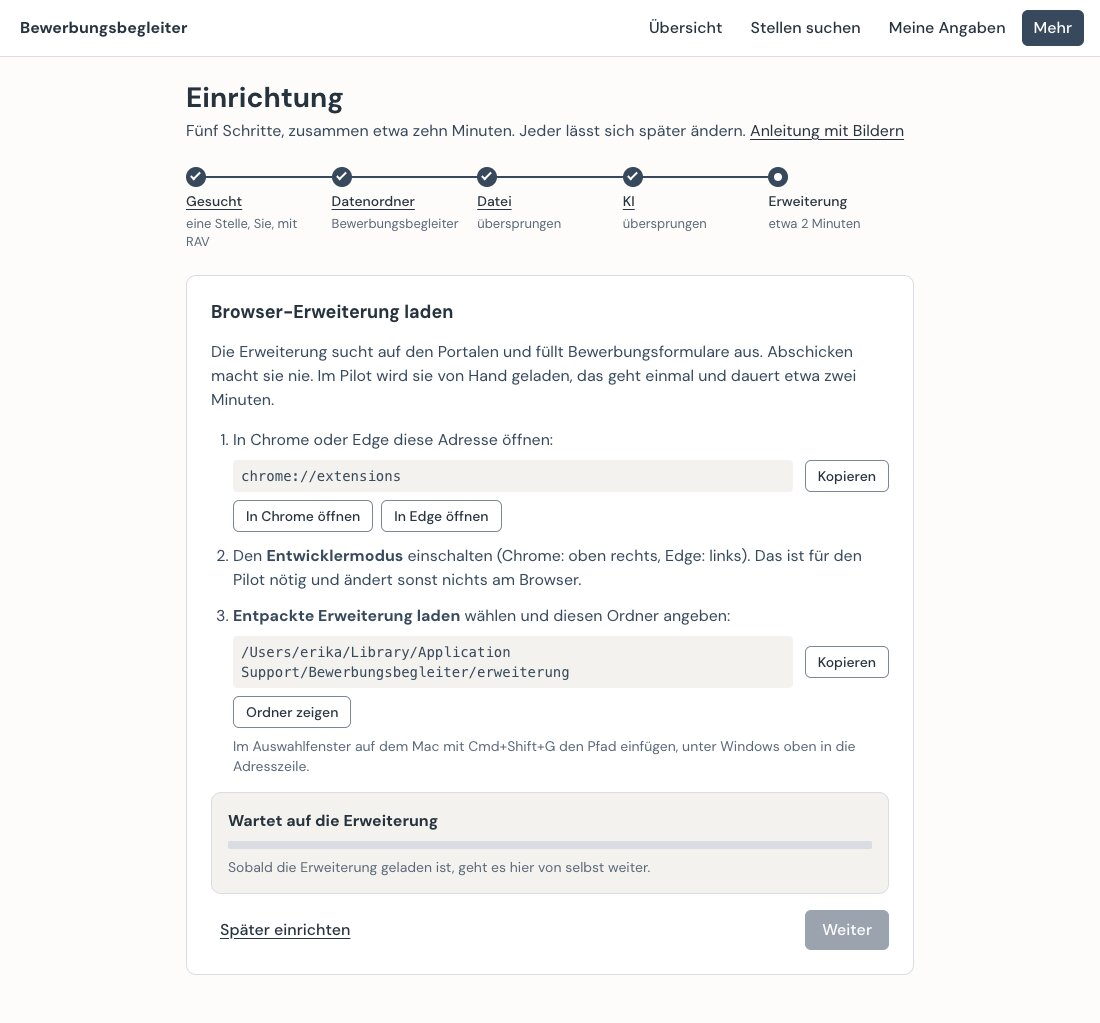
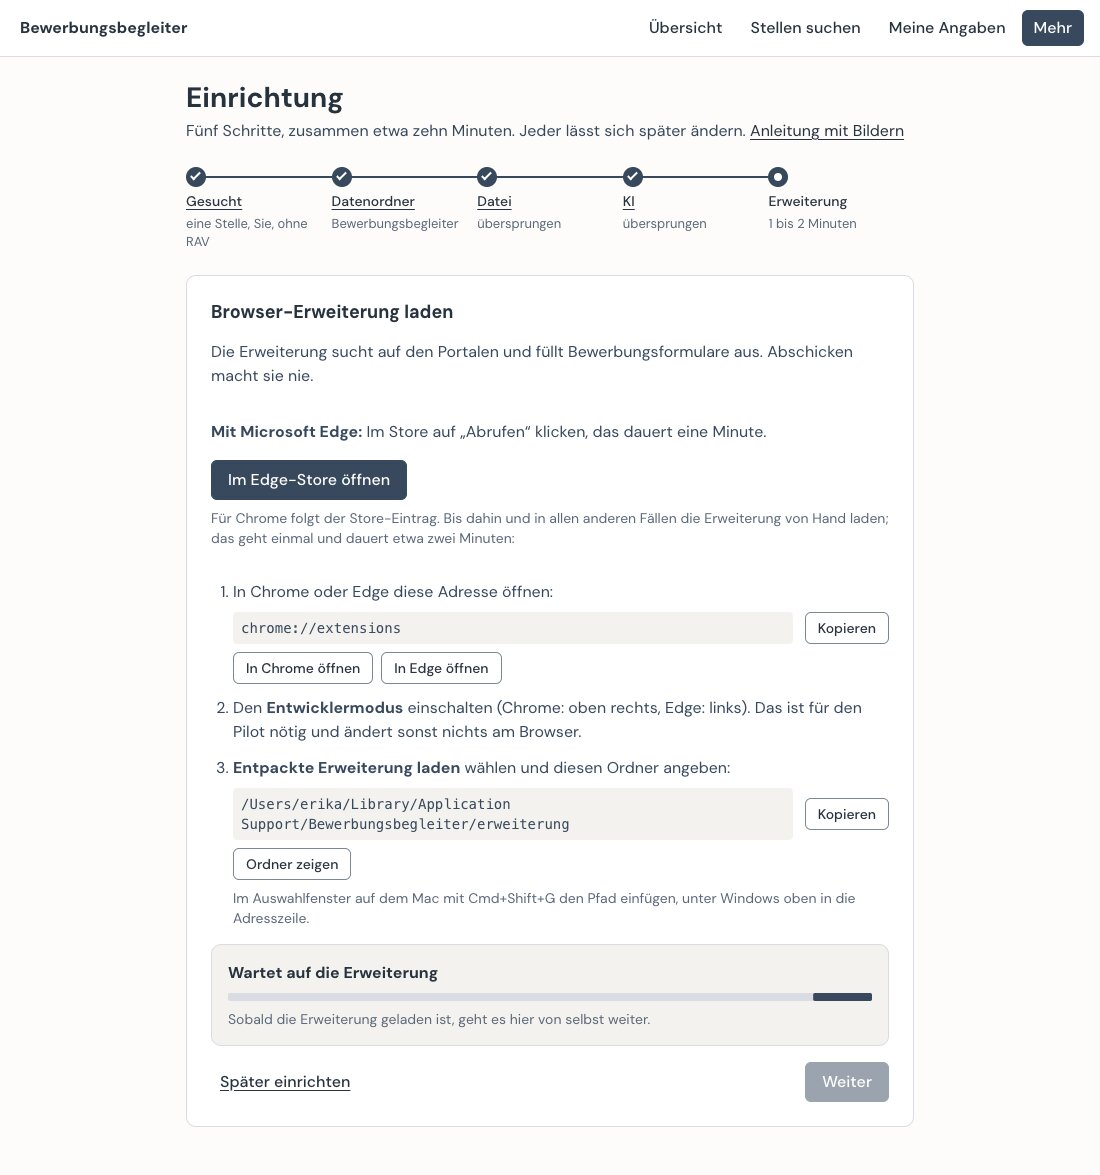
feat: lead Edge users to the store in the setup (#75) [G3] (#35)
Pullboard-Item: #75

Claude-Session: https://claude.ai/code/session_01WgFHS5MLF7RQbuiBw169Uz

diff --git a/bewerbungen/seiten/einrichtung.js b/bewerbungen/seiten/einrichtung.js
@@ -84,7 +84,7 @@
       case "ki": return kiVerbunden() ? "verbunden" : sitzung.uebersprungen.ki ? "übersprungen" : "Einladungscode";
       case "erweiterung":
         if (!info?.erweiterung) return "nur in der installierten App";
-        return erweiterungGeladen() ? "geladen" : sitzung.uebersprungen.erweiterung ? "später" : "etwa 2 Minuten";
+        return erweiterungGeladen() ? "geladen" : sitzung.uebersprungen.erweiterung ? "später" : "1 bis 2 Minuten";
       default: return "";
     }
   }
@@ -386,6 +386,7 @@
     $("erweiterung-ordner").textContent = info.erweiterung.ordner;
     const geladen = erweiterungGeladen();
     $("erweiterung-schritte").hidden = Boolean(geladen);
+    $("erweiterung-store").hidden = Boolean(geladen);
     $("erweiterung-warten").hidden = Boolean(geladen);
     $("erweiterung-weiter").disabled = !geladen;
     $("erweiterung-spaeter").hidden = Boolean(geladen);
@@ -411,6 +412,12 @@
   for (const knopf of document.querySelectorAll("button[data-browser]")) {
     knopf.addEventListener("click", async () => {
       try { await senden("/api/app/erweiterungsseite", { browser: knopf.dataset.browser }); }
+      catch (fehler) { meldung($("erweiterung-zustand"), fehler.message, "danger"); }
+    });
+  }
+  for (const knopf of document.querySelectorAll("button[data-store]")) {
+    knopf.addEventListener("click", async () => {
+      try { await senden("/api/app/erweiterung-store", { browser: knopf.dataset.store }); }
       catch (fehler) { meldung($("erweiterung-zustand"), fehler.message, "danger"); }
     });
   }

diff --git a/bewerbungen/seiten/einrichtung.html b/bewerbungen/seiten/einrichtung.html
@@ -95,7 +95,12 @@
   <!-- 5. Browser extension -->
   <section class="card" id="erweiterung" data-schritt="erweiterung" aria-labelledby="erweiterung-titel" hidden>
     <h2 id="erweiterung-titel">Browser-Erweiterung laden</h2>
-    <p>Die Erweiterung sucht auf den Portalen und füllt Bewerbungsformulare aus. Abschicken macht sie nie. Im Pilot wird sie von Hand geladen, das geht einmal und dauert etwa zwei Minuten.</p>
+    <p>Die Erweiterung sucht auf den Portalen und füllt Bewerbungsformulare aus. Abschicken macht sie nie.</p>
+    <div id="erweiterung-store" class="setup__store">
+      <p><strong>Mit Microsoft Edge:</strong> Im Store auf „Abrufen“ klicken, das dauert eine Minute.</p>
+      <div class="btn-row"><button type="button" class="btn btn--primary" data-store="edge">Im Edge-Store öffnen</button></div>
+      <p class="field__hint">Für Chrome folgt der Store-Eintrag. Bis dahin und in allen anderen Fällen die Erweiterung von Hand laden; das geht einmal und dauert etwa zwei Minuten:</p>
+    </div>
     <ol id="erweiterung-schritte" class="setup__instructions">
       <li>In Chrome oder Edge diese Adresse öffnen:
         <div class="copy-row setup__copy"><span class="copy-row__value setup__mono">chrome://extensions</span><button type="button" class="btn btn--sm" data-kopieren="chrome://extensions">Kopieren</button></div>

diff --git a/bewerbungen/seiten/stil.css b/bewerbungen/seiten/stil.css
@@ -587,6 +587,8 @@ label.check input { margin-top: 3px; }
 .setup__instructions { display: flex; flex-direction: column; gap: var(--space-3); margin: 0; padding-left: 22px; }
 .setup__instructions .btn-row, .setup__instructions .field__hint { margin-top: var(--space-2); }
 .setup__copy { grid-template-columns: 1fr auto; margin-top: var(--space-2); }
+.setup__store { margin-bottom: var(--space-4); }
+.setup__store .field__hint { margin-top: var(--space-2); }
 .setup__mono { font: 400 14px/20px var(--font-mono); }
 .setup__waiting { background: var(--surface-subtle); }
 .setup__more > summary { cursor: pointer; font-weight: 500; color: var(--text-strong); }

diff --git a/desktop/tests/test_setup.py b/desktop/tests/test_setup.py
@@ -363,6 +363,44 @@ def test_unknown_browser_is_refused():
         dialogs.open_extensions_page("firefox", "darwin", recording())
 
 
+@pytest.mark.parametrize("platform, command", [
+    ("darwin", ["open", "-a", "Microsoft Edge", dialogs.STORE_PAGES["edge"]]),
+    ("win32", ["cmd", "/c", "start", "", "msedge", dialogs.STORE_PAGES["edge"]]),
+])
+def test_store_page_opens_in_edge(platform, command):
+    run = recording()
+
+    dialogs.open_store_page("edge", platform, run)
+
+    assert run.calls == [command]
+
+
+def test_store_page_is_refused_for_a_browser_without_a_store_entry():
+    with pytest.raises(ValueError, match="Store"):
+        dialogs.open_store_page("chrome", "darwin", recording())
+
+
+def test_route_opens_the_store_without_showing_the_folder(tmp_path):
+    opened, shown = [], []
+    state = routes_setup.Setup(paths=settings.Paths(tmp_path / "app"), switch=lambda folder: None,
+                               suggestion=tmp_path / "x", extension_dir=tmp_path / "erweiterung",
+                               open_store=opened.append, reveal=shown.append)
+    _, post_routes = routes_setup.make_routes(state)
+
+    answer = post_routes["/api/app/erweiterung-store"](None, {}, {"browser": "edge"})
+
+    assert answer.status == 200 and opened == ["edge"] and shown == []
+
+
+def test_the_setup_page_offers_the_edge_store_before_loading_by_hand():
+    root = pathlib.Path(__file__).resolve().parents[2]
+    page = (root / "bewerbungen" / "seiten" / "einrichtung.html").read_text(encoding="utf-8")
+    assert 'data-store="edge"' in page
+    assert page.index('data-store="edge"') < page.index("Entpackte Erweiterung laden")
+    script = (root / "bewerbungen" / "seiten" / "einrichtung.js").read_text(encoding="utf-8")
+    assert '"/api/app/erweiterung-store"' in script
+
+
 def test_route_opens_the_page_and_shows_the_folder(tmp_path):
     opened, shown = [], []
     state = routes_setup.Setup(paths=settings.Paths(tmp_path / "app"), switch=lambda folder: None,

diff --git a/desktop/routes_setup.py b/desktop/routes_setup.py
@@ -31,6 +31,7 @@ class Setup:
     extension_dir: pathlib.Path | None = None  # developer add-on to load in the browser (MIN-339)
     reveal: Callable[[pathlib.Path], None] = lambda folder: dialogs.reveal(folder, sys.platform)
     open_page: Callable[[str], None] = lambda browser: dialogs.open_extensions_page(browser, sys.platform)
+    open_store: Callable[[str], None] = lambda browser: dialogs.open_store_page(browser, sys.platform)
 
     def data_dir(self) -> pathlib.Path | None:
         return settings.chosen_data_dir(self.paths)
@@ -101,10 +102,15 @@ def make_routes(state: Setup) -> tuple[dict, dict]:
         state.reveal(state.extension_dir)
         return json_antwort({"ok": True})
 
+    def extension_store(k, parameter, body):
+        state.open_store(body.get("browser") if isinstance(body, dict) else None)
+        return json_antwort({"ok": True})
+
     return ({"/api/app/einrichtung": overview},
             {"/api/app/ordner-pruefen": check, "/api/app/datenordner": choose_data_dir,
              "/api/app/waehlen": dialog, "/api/app/einstieg": import_einstieg,
-             "/api/app/ordner-zeigen": show_folder, "/api/app/erweiterungsseite": extensions_page})
+             "/api/app/ordner-zeigen": show_folder, "/api/app/erweiterungsseite": extensions_page,
+             "/api/app/erweiterung-store": extension_store})
 
 
 def _extension(state: Setup) -> dict | None:

diff --git a/desktop/dialogs.py b/desktop/dialogs.py
@@ -81,11 +81,27 @@ BROWSERS = {
 }
 
 
+STORE_PAGES = {
+    "edge": "https://microsoftedge.microsoft.com/addons/detail/mcbcijjbklfeffbollnemgkgnabnmfmp",
+}
+
+
 def open_extensions_page(browser: str, platform: str, run: Run = subprocess.run) -> None:
     """Open the extensions page; a web page may not link to it, the system may (MIN-366)."""
     if browser not in BROWSERS:
         raise ValueError("Unbekannter Browser.")
-    name, windows_command, page = BROWSERS[browser]
+    _open_in_browser(browser, BROWSERS[browser][2], platform, run)
+
+
+def open_store_page(browser: str, platform: str, run: Run = subprocess.run) -> None:
+    """Open the store entry in that browser: a store only installs into its own browser (#75)."""
+    if browser not in STORE_PAGES:
+        raise ValueError("Für diesen Browser gibt es noch keinen Store-Eintrag.")
+    _open_in_browser(browser, STORE_PAGES[browser], platform, run)
+
+
+def _open_in_browser(browser: str, page: str, platform: str, run: Run) -> None:
+    name, windows_command, _ = BROWSERS[browser]
     if platform == "darwin":
         command = ["open", "-a", name, page]
     elif platform == "win32":

diff --git a/docs/installation.md b/docs/installation.md
@@ -61,9 +61,13 @@ Tragen Sie danach den Einladungscode ein und klicken Sie auf **Einladung einlös
 
 ### Schritt 5: Browser-Erweiterung
 
-Die Erweiterung sucht in Ihrem Browser nach Stellen und füllt Bewerbungsformulare aus. Ausserdem liest sie auf Klick das Inserat ein, das Sie gerade offen haben, zum Beispiel auf LinkedIn oder der Karriereseite einer Firma: Inserat öffnen, auf ihr Symbol klicken, **Stelle speichern**. Bis sie im Store ist, laden Sie sie einmal von Hand.
+Die Erweiterung sucht in Ihrem Browser nach Stellen und füllt Bewerbungsformulare aus. Ausserdem liest sie auf Klick das Inserat ein, das Sie gerade offen haben, zum Beispiel auf LinkedIn oder der Karriereseite einer Firma: Inserat öffnen, auf ihr Symbol klicken, **Stelle speichern**. In Microsoft Edge kommt sie aus dem Store, für Chrome folgt der Store-Eintrag.
 
-![Schritt Browser-Erweiterung mit den Knöpfen In Chrome öffnen, In Edge öffnen, dem Pfad des Ordners und dem Knopf Ordner zeigen](bilder/einrichtung-erweiterung.jpg)
+**In Edge:** Auf **Im Edge-Store öffnen** klicken, im [Eintrag bei Edge Add-ons](https://microsoftedge.microsoft.com/addons/detail/mcbcijjbklfeffbollnemgkgnabnmfmp) auf **Abrufen** klicken und bestätigen. Fertig: In der App erscheint von selbst „Die Erweiterung ist bereit“.
+
+**In Chrome und in allen anderen Fällen** laden Sie die Erweiterung einmal von Hand:
+
+![Schritt Browser-Erweiterung mit dem Knopf Im Edge-Store öffnen, den Knöpfen In Chrome öffnen und In Edge öffnen, dem Pfad des Ordners und dem Knopf Ordner zeigen](bilder/einrichtung-erweiterung.jpg)
 
 1. Auf **In Chrome öffnen** oder **In Edge öffnen** klicken. Die Erweiterungsseite und der Ordner der Erweiterung gehen auf.
 2. Den **Entwicklermodus** einschalten: in Chrome oben rechts, in Edge links.

diff --git a/README.md b/README.md
@@ -62,7 +62,7 @@ Alle Bilder zeigen frei erfundene Beispieldaten.
 | [`skills/jobsuche/`](skills/jobsuche/SKILL.md) | Claude-Skill: Stellensuche auf job-room.ch, jobs.ch, LinkedIn und Karriereseiten, Eintrag ins Register, optional Jobliste in Google Sheets |
 | [`skills/bewerbung/`](skills/bewerbung/SKILL.md) | Claude-Skill: von der Stelle zur fertigen Bewerbung – Variante wählen, Anschreiben im eigenen Stil, Prüfung, Versand |
 | [`desktop/`](desktop/README.md) | Lokale App für Windows und macOS: Installer, Start per Doppelklick, Einladungslink, signierte Updates vom eigenen Server |
-| [`erweiterung/`](erweiterung/README.md) | Browser-Erweiterung für Chrome und Edge: Stellensuche auf job-room, jobs.ch, jobscout24 und ictjobs, Lehrstellensuche auf LENA und yousty nach dem Suchprofil, im Browser der Person; Treffer gehen an die App |
+| [`erweiterung/`](erweiterung/README.md) | Browser-Erweiterung für Chrome und Edge: in Edge aus dem [Store](https://microsoftedge.microsoft.com/addons/detail/mcbcijjbklfeffbollnemgkgnabnmfmp), in Chrome vorerst von Hand geladen; Stellensuche auf job-room, jobs.ch, jobscout24 und ictjobs, Lehrstellensuche auf LENA und yousty nach dem Suchprofil, im Browser der Person; Treffer gehen an die App |
 | [`vermittlung/`](vermittlung/README.md) | KI-Vermittlung für den Pilot: Zugang pro Person per Einladung, Budgets, Kosten ohne Inhalte; Container hinter HTTPS |
 | [`onboarding/`](onboarding/README.md) | Formular für die Grundlagen (Stellen- und Lehrstellensuche): Quellen der Seite „Meine Angaben“ und Import in den Datenordner |
 | [`vorlagen/`](vorlagen/) | Vorlagen für die persönlichen Dateien (Suchprofil, Stilprofil, Bausteine fürs Anschreiben) |

diff --git a/erweiterung/README.md b/erweiterung/README.md
@@ -2,7 +2,7 @@
 
 Modul des [Bewerbungsbegleiters](../README.md) (MIN-339): Die Erweiterung für Chrome und Edge sucht nach dem Suchprofil: Stellen auf job-room, jobs.ch, jobscout24 und ictjobs, Lehrstellen auf LENA (berufsberatung.ch) und yousty. Sie sucht im Browser der Person, mit deren IP und Logins, und nur, wenn die Person die Suche startet. Die Treffer gehen über Native Messaging an die [Desktop-App](../desktop/README.md); dort erscheinen sie auf der Seite „Stellen suchen“.
 
-Im Pilot wird sie als **Entwicklererweiterung** geladen („Entpackte Erweiterung laden“). Für die Stores baut `desktop/store_package.py` die ZIP-Datei: ohne Tests und ohne das Feld `key`, denn dort vergibt der Store die ID. Diese ID muss in `EXTENSION_IDS` (`desktop/native_messaging.py`) stehen, sonst lässt die App die Store-Fassung nicht zu.
+In Edge kommt sie aus dem [Store](https://microsoftedge.microsoft.com/addons/detail/mcbcijjbklfeffbollnemgkgnabnmfmp), die Einrichtung führt dorthin. Sonst wird sie als **Entwicklererweiterung** geladen („Entpackte Erweiterung laden“). Für die Stores baut `desktop/store_package.py` die ZIP-Datei: ohne Tests und ohne das Feld `key`, denn dort vergibt der Store die ID. Diese ID muss in `EXTENSION_IDS` (`desktop/native_messaging.py`) stehen, sonst lässt die App die Store-Fassung nicht zu.
 
 ## Einrichten
 
